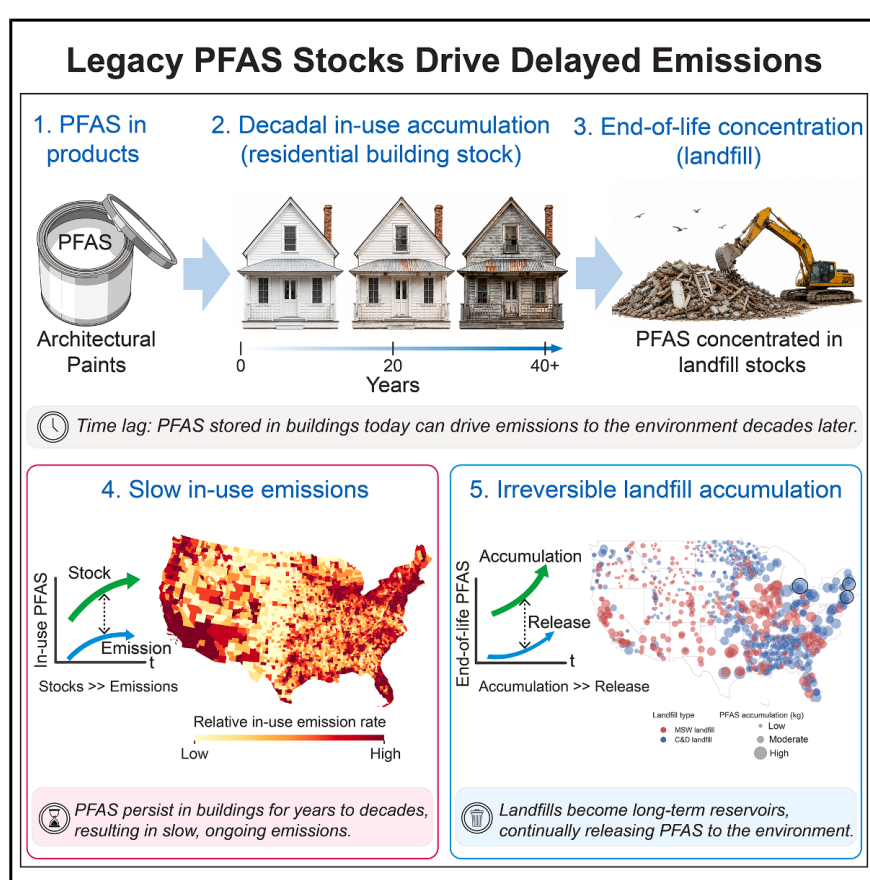
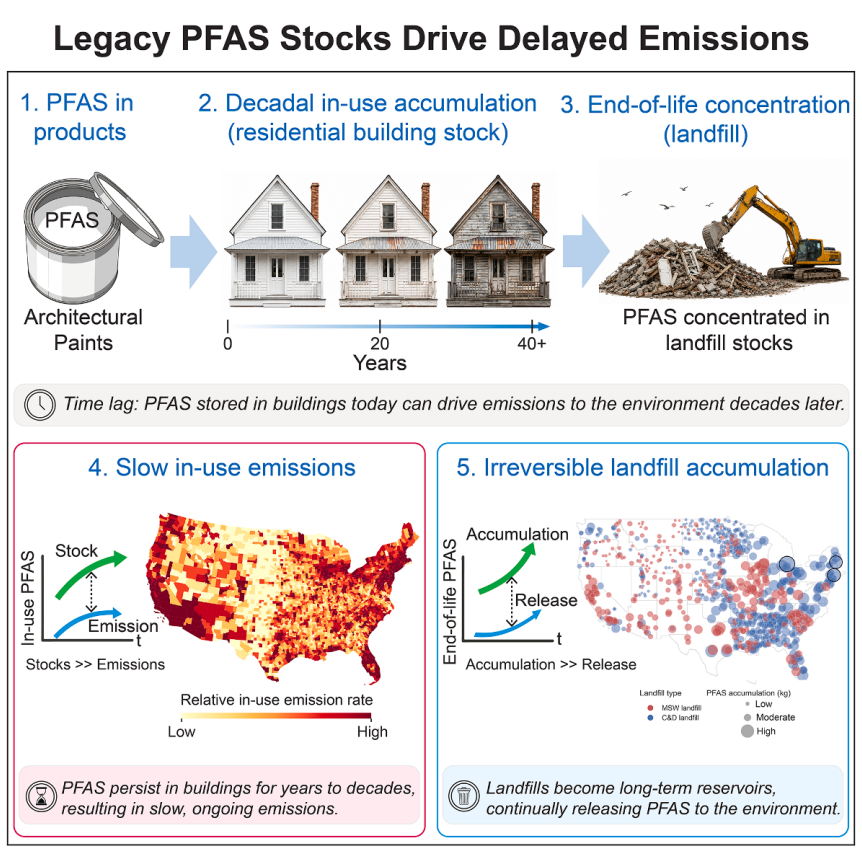
Float graphical abstract with text wrap, remove border artifact from crop

diff --git a/publications.html b/publications.html
@@ -74,6 +74,8 @@
       <div class="pub-section">
         <div class="pub-section-name">Material Flow Analysis</div>
 
+        <img src="images/pfas-paint-graphical-abstract.png" alt="Graphical abstract: Legacy PFAS stocks drive delayed emissions from architectural paint through in-use accumulation to landfill concentration" class="pub-graphical-abstract">
+
         <p class="pub-blurb">
           Where do persistent chemicals go after we use them — and when do they come back? Our material flow analysis (MFA) research tracks substances such as PFAS and BPA through products, buildings, and waste systems over decades, at national to county resolution. Our latest study modeled PFAS in US residential paint from 2000 to 2060: in-use stocks exceeded annual emissions 47-fold in 2020, and landfill emissions are projected to grow more than 25-fold by 2060 — evidence that legacy stocks, not current use, will dominate future risk.
         </p>
@@ -82,7 +84,7 @@
           Our toolkit combines dynamic stock–flow modeling, census-tract geospatial allocation with road-network waste routing, Monte Carlo uncertainty analysis, and Sobol global sensitivity analysis, and we release all code and data openly. We welcome collaborators who want to connect measurements to system-wide chemical fate, and students eager to build quantitative, policy-relevant skills at the intersection of environmental engineering, data science, and industrial ecology.
         </p>
 
-        <img src="images/pfas-paint-graphical-abstract.png" alt="Graphical abstract: Legacy PFAS stocks drive delayed emissions from architectural paint through in-use accumulation to landfill concentration" class="pub-graphical-abstract">
+        <div style="clear:both;"></div>
 
         <div class="pub-featured">
           <span class="pub-featured-label">Featured</span>

diff --git a/css/style.css b/css/style.css
@@ -510,12 +510,15 @@ h1, h2, h3, h4 { font-weight: 700; line-height: 1.25; color: var(--text); text-w
 }
 .pub-graphical-abstract {
   width: 100%;
-  max-width: 380px;
-  display: block;
+  max-width: 300px;
+  float: right;
+  margin: 4px 0 16px 24px;
   border: 1px solid var(--border);
   border-radius: var(--radius);
-  margin: 0 auto 20px;
   box-shadow: 0 1px 6px rgba(0,0,0,0.06);
+}
+@media (max-width: 640px) {
+  .pub-graphical-abstract { float: none; margin: 0 auto 20px; display: block; }
 }
 .pub-featured {
   font-size: 13.5px;
